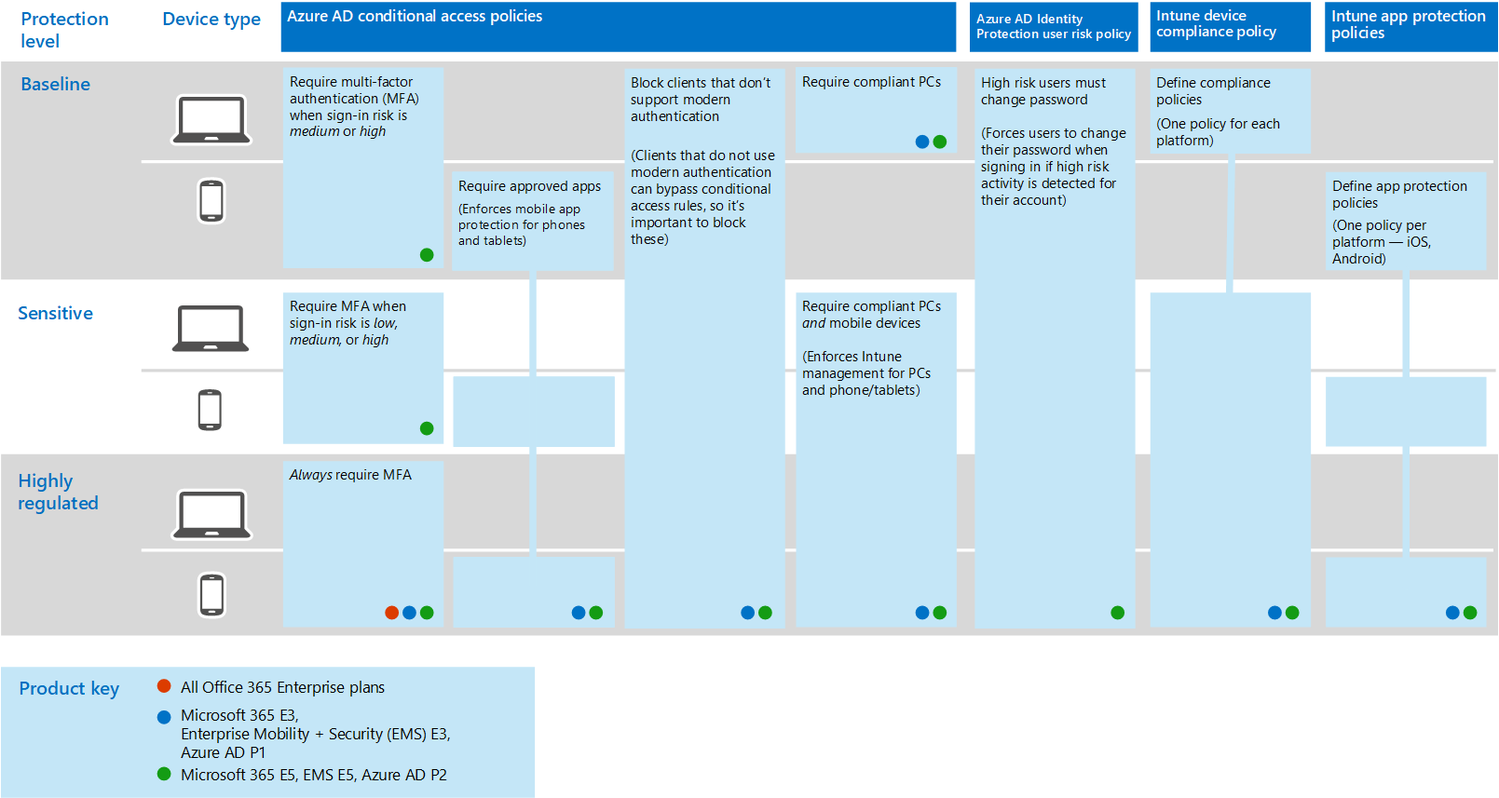
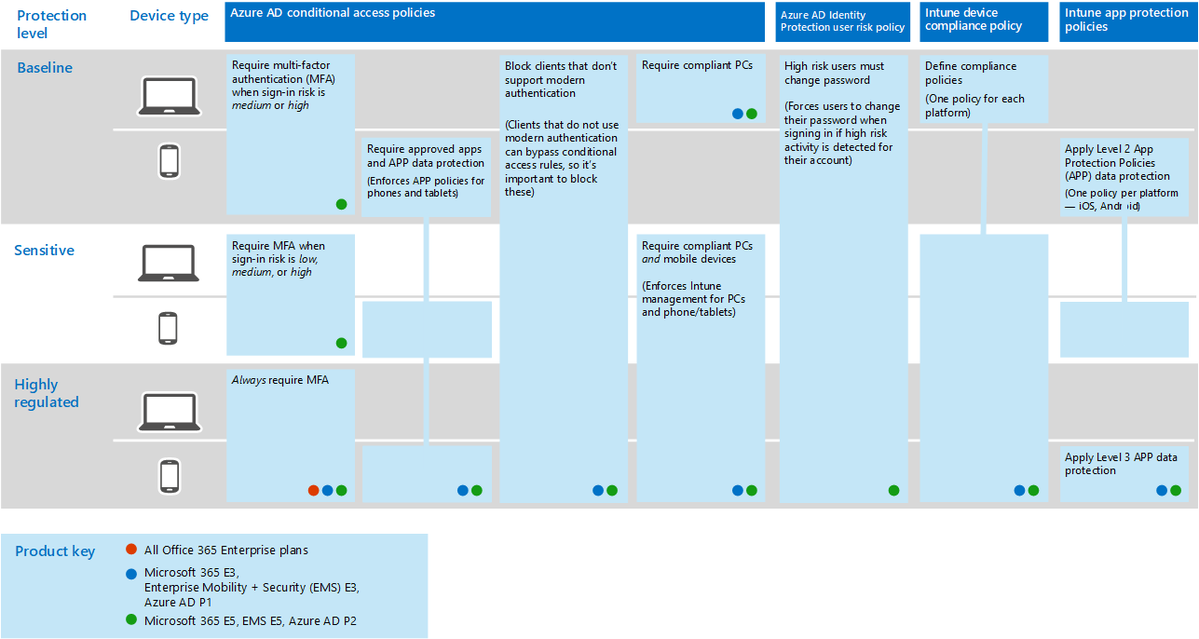
commit translated contents

diff --git a/microsoft-365/security/top-security-tasks-for-remote-work.md b/microsoft-365/security/top-security-tasks-for-remote-work.md
@@ -1,0 +1,245 @@
+---
+title: As 12 principais tarefas para as equipes de segurança dar suporte ao trabalho de casa
+f1.keywords:
+- CSH
+ms.author: bcarter
+author: brendacarter
+manager: johmar
+audience: Admin
+ms.topic: tutorial
+ms.service: o365-seccomp
+localization_priority: Normal
+ms.collection:
+- M365-security-compliance
+description: 'Proteja seus emails e dados de negócios contra ameaças da Cyber, incluindo ransomware, phishing e anexos mal-intencionados. '
+ms.openlocfilehash: 73f2ae19a7424d392bb365d7a24a83532a1950bf
+ms.sourcegitcommit: 37f17c918208b83fc04ba92e986e0a7548d4c38d
+ms.translationtype: MT
+ms.contentlocale: pt-BR
+ms.lasthandoff: 03/29/2020
+ms.locfileid: "43036376"
+---
+# <a name="top-12-tasks-for-security-teams-to-support-working-from-home"></a>As 12 principais tarefas para equipes de segurança dar suporte ao trabalho de casa
+
+Se você é como a [Microsoft](https://www.microsoft.com/microsoft-365/blog/2020/03/10/staying-productive-while-working-remotely-with-microsoft-teams/) e, de repente, está dando suporte a uma força de trabalho essencialmente baseada em casa, queremos ajudá-lo a garantir que sua organização esteja trabalhando o mais seguro possível. Este artigo prioriza tarefas para ajudar as equipes de segurança a implementar os recursos de segurança mais importantes o mais rápido possível. 
+
+Se você for uma organização de pequeno e médio porte usando um dos planos de negócios da Microsoft, consulte estes recursos:
+- [10 principais formas de proteger planos corporativos do Office 365 e do Microsoft 365](../admin/security-and-compliance/secure-your-business-data.md) 
+- [Microsoft 365 para campanhas](https://docs.microsoft.com/microsoft-365/campaigns/?view=o365-worldwide) (inclui uma configuração de segurança recomendada para o Microsoft 365 Business)
+
+  
+Para os clientes que usam nossos planos corporativos, a Microsoft recomenda que você conclua as tarefas listadas na tabela a seguir que se aplicam ao seu plano de serviço. Se, em vez de comprar um plano Microsoft 365 Enterprise, você está combinando assinaturas, observe o seguinte:
+- O Microsoft 365 E3 inclui o Enterprise Mobility + Security (EMS) E3 e o Azure AD P1
+- O Microsoft 365 E5 inclui o EMS E5 e o Azure AD P2
+  
+||**Tarefa**| Todos os planos empresariais do Office 365|**Microsoft 365 E3** |**Microsoft 365 e5**|
+|:-----|:-----|:-----|:-----|:-----|
+|1      |[Habilitar a MFA (autenticação multifator do Azure)](#1-enable-azure-multi-factor-authentication-mfa)   |   ![Incluído](../media/d238e041-6854-4a78-9141-049224df0795.png)  |![Incluído](../media/d238e041-6854-4a78-9141-049224df0795.png)   | ![Incluído](../media/d238e041-6854-4a78-9141-049224df0795.png)      | 
+|duas     | [Proteção contra ameaças no Office 365](#2-protect-against-threats-in-office-365) |![Incluído](../media/d238e041-6854-4a78-9141-049224df0795.png) |  ![Incluído](../media/d238e041-6854-4a78-9141-049224df0795.png)       | ![Incluído](../media/d238e041-6854-4a78-9141-049224df0795.png)       | 
+|3D      |  [Configurar a proteção avançada contra ameaças do Office 365](#3-configure-office-365-advanced-threat-protection)  |   |      |  ![Incluído](../media/d238e041-6854-4a78-9141-049224df0795.png)     | 
+|4       | [Configurar a proteção avançada contra ameaças (ATP) do Azure](#4-configure-azure-advanced-threat-protection)   |   |      |  ![Incluído](../media/d238e041-6854-4a78-9141-049224df0795.png)     | 
+|5      |   [Ativar a proteção avançada contra ameaças da Microsoft](#5-turn-on-microsoft-advanced-threat-protection)  |  |      | ![Incluído](../media/d238e041-6854-4a78-9141-049224df0795.png)      | 
+|6       | [Configurar a proteção de aplicativos móveis do Intune para telefones e tablets](#6-configure-intune-mobile-app-protection-for-phones-and-tablets) |    |  ![Incluído](../media/d238e041-6854-4a78-9141-049224df0795.png)       |  ![Incluído](../media/d238e041-6854-4a78-9141-049224df0795.png)       | 
+|7      | [Configurar a MFA e o acesso condicional para convidados, incluindo a proteção de aplicativos do Intune](#7-configure-mfa-and-conditional-access-for-guests-including-intune-mobile-app-protection)  |    |  ![Incluído](../media/d238e041-6854-4a78-9141-049224df0795.png)     | ![Incluído](../media/d238e041-6854-4a78-9141-049224df0795.png)      | 
+|8       |  [Registrar PCs no gerenciamento de dispositivos e exigir computadores compatíveis](#8-enroll-pcs-into-device-management-and-require-compliant-pcs)   |  | ![Incluído](../media/d238e041-6854-4a78-9141-049224df0795.png)        | ![Incluído](../media/d238e041-6854-4a78-9141-049224df0795.png)        | 
+|9       | [Otimizar sua rede para conectividade de nuvem](#9-optimize-your-network-for-cloud-connectivity)  |  ![Incluído](../media/d238e041-6854-4a78-9141-049224df0795.png) |![Incluído](../media/d238e041-6854-4a78-9141-049224df0795.png)      |![Incluído](../media/d238e041-6854-4a78-9141-049224df0795.png)        | 
+|10    | [Treinar usuários](#10-train-users) |    ![Incluído](../media/d238e041-6854-4a78-9141-049224df0795.png) |![Incluído](../media/d238e041-6854-4a78-9141-049224df0795.png)      |![Incluído](../media/d238e041-6854-4a78-9141-049224df0795.png)      | 
+|11 |[Introdução ao Microsoft Cloud app Security](#11-get-started-with-microsoft-cloud-app-security) |![Incluído](../media/d238e041-6854-4a78-9141-049224df0795.png)   |![Incluído](../media/d238e041-6854-4a78-9141-049224df0795.png)   |![Incluído](../media/d238e041-6854-4a78-9141-049224df0795.png)   |
+|12  |[Monitorar ameaças e tomar ações](#12-monitor-for-threats-and-take-action) |![Incluído](../media/d238e041-6854-4a78-9141-049224df0795.png)   |![Incluído](../media/d238e041-6854-4a78-9141-049224df0795.png)  |![Incluído](../media/d238e041-6854-4a78-9141-049224df0795.png)  |
+| | | |
+
+
+   
+Antes de começar, verifique sua pontuação de segurança do [microsoft 365](https://docs.microsoft.com/microsoft-365/security/mtp/microsoft-secure-score) na central de segurança do Microsoft 365. A partir de um painel centralizado, você pode monitorar e aprimorar a segurança de suas identidades, dados, aplicativos, dispositivos e infraestrutura do Microsoft 365. Você receberá pontos para configurar os recursos de segurança recomendados, executar tarefas relacionadas à segurança (como exibir relatórios) ou endereçar recomendações com aplicativos ou software de terceiros. As tarefas recomendadas neste artigo aumentarão sua pontuação.
+  
+![Captura de tela da Pontuação segura da Microsoft](../media/secure-score.png)
+  
+## <a name="1-enable-azure-multi-factor-authentication-mfa"></a>1: habilitar a MFA (autenticação multifator do Azure)
+A melhor coisa que você pode fazer para melhorar a segurança de funcionários que trabalham em casa é ativar a MFA. Se você ainda não tem processos no lugar, trate isso como um piloto de emergência e certifique-se de que você tem suporte para pessoas prontas para ajudar os funcionários que se encontram presas. Como provavelmente, você não pode distribuir dispositivos de segurança de hardware, usar aplicativos de autenticação de biometria e Smartphone do Windows Hello como o Microsoft Authenticator.
+
+Normalmente, a Microsoft recomenda que você forneça aos usuários 14 dias para registrar o dispositivo para autenticação multifator antes de exigir a MFA. No entanto, se sua força de trabalho estiver trabalhando de repente, vá em frente e exija MFA como uma prioridade de segurança e prepare-se para ajudar os usuários que precisarem. 
+
+A aplicação dessas políticas levará apenas alguns minutos, mas estará preparada para dar suporte aos usuários nos próximos dias.  
+
+
+|Planejar  |Recomendação  |
+|---------|---------|
+|Planos do Office 365 (sem o Azure AD P1 ou P2)     |[Habilitar padrões de segurança no Azure ad](https://docs.microsoft.com/azure/active-directory/fundamentals/concept-fundamentals-security-defaults). Os padrões de segurança no Azure AD incluem MFA de usuários e administradores.   |
+|Microsoft 365 E3 (com o Azure AD P1)     | Use [políticas de acesso condicional comuns](https://docs.microsoft.com/azure/active-directory/conditional-access/concept-conditional-access-policy-common) para configurar as seguintes políticas: <br>- [Exigir MFA para administradores](https://docs.microsoft.com/azure/active-directory/conditional-access/howto-conditional-access-policy-admin-mfa) <br>- [Exigir MFA para todos os usuários](https://docs.microsoft.com/azure/active-directory/conditional-access/howto-conditional-access-policy-all-users-mfa) <br> - [Bloquear autenticação herdada](https://docs.microsoft.com/azure/active-directory/conditional-access/howto-conditional-access-policy-block-legacy)       |
+|Microsoft 365 E5 (com o Azure AD P2)     | Aproveitando a proteção de identidade do Azure AD, comece a implementar o [conjunto recomendado de acesso condicional e políticas relacionadas](../enterprise/identity-access-policies.md) da Microsoft, criando estas duas políticas:<br> - [Exigir MFA quando o risco de entrada for médio ou alto](../enterprise/identity-access-policies.md#require-mfa-based-on-sign-in-risk) <br>- [Bloquear clientes que não dão suporte à autenticação moderna](../enterprise/identity-access-policies.md#block-clients-that-dont-support-modern-authentication)<br>- [Usuários de alto risco devem alterar a senha](../enterprise/identity-access-policies.md#high-risk-users-must-change-password)       |
+| | |
+
+
+  
+## <a name="2-protect-against-threats-in-office-365"></a>2: proteger contra ameaças no Office 365
+
+Todos os planos do Office 365 incluem vários recursos de proteção contra ameaças. O relevo da proteção desses recursos leva apenas alguns minutos.
+- Proteção antimalware
+- Proteção de arquivos e URLs maliciosos
+- Proteção antiphishing
+- Proteção antispam
+
+Consulte [proteger contra ameaças no Office 365](office-365-security/protect-against-threats.md) para obter orientações que você pode usar como ponto de partida.
+    
+
+## <a name="3-configure-office-365-advanced-threat-protection"></a>3: configurar a proteção avançada contra ameaças do Office 365
+
+A proteção avançada contra ameaças (ATP) do Office 365, incluída no Microsoft 365 E5 e no Office 365 e5, protege sua organização contra ameaças maliciosas representadas por mensagens de email, links (URLs) e ferramentas de colaboração. Isso pode levar várias horas para configurar.
+
+Office 365 ATP:
+- Protege sua organização contra ameaças de email desconhecidas em tempo real usando sistemas inteligentes que inspecionam anexos e links de conteúdo mal-intencionado. Esses sistemas automatizados incluem uma plataforma robusta do acionamento, heurística e modelos de aprendizado de máquina. 
+- Protege sua organização quando os usuários colaboram e compartilham arquivos, identificando e bloqueando arquivos mal-intencionados em sites de equipe e bibliotecas de documentos. 
+- Aplica modelos de aprendizado de máquina e algoritmos avançados de detecção de representação a ataques de phishing da AVERT. 
+
+Para obter uma visão geral, incluindo um resumo dos planos, confira [proteção avançada contra ameaças do Office 365](office-365-security/office-365-atp.md).
+
+O administrador global pode configurar essas proteções:
+- [Configurar links seguros de ATP](office-365-security/set-up-atp-safe-links-policies.md)
+- [Configurar uma política de Anexos Seguros de ATP](office-365-security/set-up-atp-safe-attachments-policies.md)
+- [Configurar uma lista personalizada de URLs do tipo "não reconfigurar" ](office-365-security/set-up-a-custom-do-not-rewrite-urls-list-with-atp.md)
+- [Configurar uma lista personalizada de URLs bloqueadas](office-365-security/set-up-a-custom-blocked-urls-list-wtih-atp.md)
+
+Você precisará trabalhar com seu administrador do Exchange Online e administrador do SharePoint Online para configurar a ATP para essas cargas de trabalho:
+- [Ativar a ATP para SharePoint, OneDrive e Microsoft Teams](office-365-security/turn-on-atp-for-spo-odb-and-teams.md)
+
+## <a name="4-configure-azure-advanced-threat-protection"></a>4: configurar a proteção avançada contra ameaças do Azure
+
+A [proteção avançada contra ameaças do Azure](https://docs.microsoft.com/azure-advanced-threat-protection/what-is-atp) (Azure ATP) é uma solução de segurança baseada em nuvem que aproveita seus sinais do Active Directory local para identificar, detectar e investigar ameaças avançadas, identidades comprometidas e ações mal-intencionadas intencionais direcionadas para sua organização. Concentre-se nesse próximo porque ele protege sua infraestrutura local e de nuvem, não tem dependências ou pré-requisitos e pode fornecer benefícios imediatos.
+
+
+- Confira o [início rápido do Azure ATP](https://docs.microsoft.com/azure-advanced-threat-protection/install-atp-step1) para obter a configuração rapidamente 
+- Assista [ao vídeo: Introduction to Azure ATP](https://www.youtube.com/watch?reload=9&v=EGY2m8yU_KE)
+- Analisar as [três fases da implantação do Azure ATP](https://docs.microsoft.com/azure-advanced-threat-protection/what-is-atp#whats-next)
+
+## <a name="5-turn-on-microsoft-advanced-threat-protection"></a>5: ativar a proteção avançada contra ameaças da Microsoft
+
+Agora que você tem o Office 365 ATP e o Azure ATP configurados, você pode exibir os sinais combinados desses recursos em um painel. A [Microsoft Threat Protection](https://docs.microsoft.com/microsoft-365/security/mtp/microsoft-threat-protection) (MTP) reúne alertas, incidentes, investigação e resposta automatizadas e busca avançada entre cargas de trabalho (Azure ATP, Office 365 ATP, Microsoft defender ATP e Microsoft Cloud app Security) em um único painel em [Security.Microsoft.com](https://security.microsoft.com). 
+<br>
+
+![Ilustração do painel MTP](../media/top-10-security-remote-work-mtp-dashboard.png)
+<br><br>
+Depois de configurar um ou mais serviços avançados de proteção contra ameaças, ative o MTP. Novos recursos são adicionados continuamente ao MTP; Considere optar por receber recursos de visualização.
+
+- [Saiba mais sobre MTP](https://docs.microsoft.com/microsoft-365/security/mtp/microsoft-threat-protection?view=o365-worldwide)
+- [Ativar MTP](https://docs.microsoft.com/microsoft-365/security/mtp/mtp-enable?view=o365-worldwide)
+- [Aceitar recursos de visualização](https://docs.microsoft.com/microsoft-365/security/mtp/preview?view=o365-worldwide)
+
+
+## <a name="6-configure-intune-mobile-app-protection-for-phones-and-tablets"></a>6: configurar a proteção de aplicativos móveis do Intune para telefones e tablets
+
+O Microsoft Intune Mobile Application Management (MAM) permite que você gerencie e proteja os dados da sua organização em telefones e tablets sem gerenciar esses dispositivos. Veja como funciona:
+- Você cria uma política de proteção de aplicativo (aplicativo) que determina quais aplicativos em um dispositivo são gerenciados e quais comportamentos são permitidos (por exemplo, impedir que dados de um aplicativo gerenciado sejam copiados para um aplicativo não gerenciado). Você cria uma política para cada platorm (iOS, Android).
+- Depois de criar as políticas de proteção de aplicativo, você as aplica criando uma regra de acesso condicional no Azure AD para exigir aplicativos aprovados e proteção de dados de aplicativos.
+
+As políticas de proteção de aplicativos incluem muitas configurações. Felizmente, você não precisa saber mais sobre cada configuração e avaliar as opções. A Microsoft facilita a aplicação de uma configuração de configurações, recomendando pontos iniciais. A [estrutura de proteção de dados usando políticas de proteção de aplicativo](https://docs.microsoft.com/mem/intune/apps/app-protection-framework) inclui três níveis que você pode escolher. 
+
+O melhor é que a Microsoft coordena essa estrutura de proteção do aplicativo com um conjunto de acesso condicional e políticas relacionadas que recomendamos que todas as organizações usem como ponto de partida. Se você implementou o MFA usando as orientações deste artigo, você é meio caminho lá!
+
+Para configurar a proteção de aplicativos móveis, use as orientações em [políticas comuns de acesso a dispositivos e identidades](../enterprise/identity-access-policies.md):
+ 1. Use a guia [aplicar políticas de proteção de dados de aplicativos](../enterprise/identity-access-policies.md#apply-app-data-protection-policies) para criar políticas para IOS e Android. O nível 2 (proteção avançada de dados) é recomendado para a proteção de linha de base. 
+ 2. Crie uma regra de acesso condicional para [exigir aplicativos aprovados e proteção de aplicativos](../enterprise/identity-access-policies.md#require-approved-apps-and-app-protection). 
+
+## <a name="7-configure-mfa-and-conditional-access-for-guests-including-intune-mobile-app-protection"></a>7: Configure a MFA e o acesso condicional para convidados, incluindo a proteção de aplicativos móveis do Intune
+
+Em seguida, vamos garantir que você possa continuar colaborar e trabalhar com convidados. Se você estiver usando o Microsoft 365 E3 Plan e implementou a MFA para todos os usuários, você está pronto. 
+
+Se você estiver usando o Microsoft 365 E5 Plan e estiver tirando proveito da proteção de identidade do Azure para a MFA baseada em risco, precisará fazer alguns ajustes (porque a proteção de identidade do Azure AD não é estendida para convidados):
+- Crie uma nova regra de acesso condicional para exigir a MFA sempre para convidados e usuários externos.
+- Atualize a regra de acesso condicional do MFA com base em risco para excluir convidados e usuários externos.
+
+Use as orientações sobre como [atualizar as políticas comuns para permitir e proteger o acesso externo e de convidados](../enterprise/identity-access-policies-guest-access.md) para entender como o acesso de convidados funciona com o Azure AD e para atualizar as políticas afetadas. 
+
+As políticas de proteção de aplicativos móveis do Intune criadas, junto com a regra de acesso condicional para exigir aplicativos e proteção de aplicativos aprovados, se aplicam às contas de convidados e ajudarão a proteger os dados da organização. 
+
+**Observação**: se você já registrou os computadores no gerenciamento de dispositivos para exigir computadores compatíveis, você também precisará excluir as contas de convidados da regra de acesso condicional que impõe a conformidade do dispositivo. 
+
+
+## <a name="8-enroll-pcs-into-device-management-and-require-compliant-pcs"></a>8: registrar os PCs no gerenciamento de dispositivos e exigir computadores compatíveis
+
+Há vários métodos para registrar os dispositivos de sua força de funcionários. Cada método depende da Propriedade do dispositivo (pessoal ou corporativo), do tipo de dispositivo (iOS, Windows, Android) e dos requisitos de gerenciamento (redefinições, afinidade, bloqueio). Isso pode levar algum tempo para ser classificado. Confira: [registrar dispositivos no Microsoft Intune](https://docs.microsoft.com/mem/intune/enrollment/). 
+
+A maneira mais rápida de se começar é [Configurar o registro automático para dispositivos Windows 10](https://docs.microsoft.com/mem/intune/enrollment/quickstart-setup-auto-enrollment). 
+
+Você também pode aproveitar estes tutoriais:
+- [Usar o piloto automático para registrar dispositivos Windows no Intune](https://docs.microsoft.com/mem/intune/enrollment/tutorial-use-autopilot-enroll-devices)
+- [Usar os recursos de registro de dispositivo corporativo da Apple no Apple Business Manager (ABM) para registrar dispositivos iOS/iPadOS no Intune](https://docs.microsoft.com/mem/intune/enrollment/tutorial-use-device-enrollment-program-enroll-ios)
+
+Após registrar os dispositivos, use as orientações em [políticas comuns de acesso de dispositivo e identidade](../enterprise/identity-access-policies.md) para criar essas políticas:
+- [Definir políticas de conformidade de dispositivos](../enterprise/identity-access-policies.md#define-device-compliance-policies)
+- [Exigir computadores compatíveis](../enterprise/identity-access-policies.md#require-compliant-pcs-but-not-compliant-phones-and-tablets) (regra de acesso condicional)
+
+Somente uma organização pode gerenciar um dispositivo, portanto, certifique-se de excluir as contas de convidado da regra de acesso condicional no Azure AD. Se você não excluir usuários convidados e externos de políticas que exigem conformidade de dispositivos, essas políticas bloquearão esses usuários. Para obter mais informações, consulte [atualizando as políticas comuns para permitir e proteger o acesso externo e convidado](../enterprise/identity-access-policies-guest-access.md).
+
+## <a name="9-optimize-your-network-for-cloud-connectivity"></a>9: Otimize sua rede para conectividade de nuvem
+
+Se você estiver rapidamente permitindo que a maior parte dos seus funcionários trabalhe de casa, essa opção repentina de padrões de conectividade pode ter um impacto significativo na infraestrutura de rede corporativa. Muitas redes foram dimensionadas e projetadas antes da adoção dos serviços em nuvem. Em muitos casos, as redes são tolerantes a funcionários remotos, mas não foram projetadas para serem usadas remotamente por todos os usuários simultaneamente.
+
+Elementos de rede, como concentradores VPN, equipamentos de saída de rede central (como proxies e dispositivos de prevenção contra perda de dados), largura de banda da Internet central, circuitos MPLS backhaul, recurso NAT e assim por diante são colocados em grande sobrecarga devido à carga de toda a empresa que as usa. O resultado final é desempenho e produtividade insatisfatórios, juntamente com uma experiência de usuário ruim para usuários que estão se adaptando para trabalhar de casa.
+
+Algumas das proteções que foram fornecidas tradicionalmente por meio de tráfego de roteamento de entrada em uma rede corporativa são fornecidas pelos aplicativos de nuvem que seus usuários estão acessando. Se você tiver atingido esta etapa neste artigo, implementou um conjunto de controles de segurança de nuvem sofisticados para os serviços e dados do Microsoft 365. Com esses controles in-loco, você pode estar pronto para rotear o tráfego de usuários remotos diretamente para o Office 365. Se ainda precisar de um link VPN para acessar outros aplicativos, você poderá melhorar muito o desempenho e a experiência do usuário implementando o túnel de divisão. Depois de obter o contrato no oganization, isso pode ser realizado dentro de um dia por uma equipe de rede bem coordenada.
+
+
+Confira estes recursos em docs para obter mais informações:
+- [Visão geral: otimizar a conectividade do Office 365 para usuários remotos usando o túnel dividido VPN](https://docs.microsoft.com/Office365/Enterprise/office-365-vpn-split-tunnel)
+- [Implementando o tunelamento dividido de VPN para Office 365](https://docs.microsoft.com/Office365/Enterprise/office-365-vpn-implement-split-tunnel)
+
+Artigos recentes do blog sobre este tópico:
+- [Como otimizar rapidamente o tráfego do Office 365 para a equipe remota & reduzir a carga em sua infraestrutura](https://techcommunity.microsoft.com/t5/office-365-blog/how-to-quickly-optimize-office-365-traffic-for-remote-staff-amp/ba-p/1214571#)
+- [Maneiras alternativas para profissionais de segurança e ti obter controles de segurança modernos nos cenários de trabalho remoto exclusivos de hoje](https://www.microsoft.com/security/blog/2020/03/26/alternative-security-professionals-it-achieve-modern-security-controls-todays-unique-remote-work-scenarios/)
+
+
+## <a name="10-train-users"></a>10: treinar os usuários
+
+Quando os usuários não sabem sobre os recursos de proteção contra ameaças no trabalho em sua organização, eles podem se frustrar por recursos de proteção que são percebidos e diminuí-los ou impedindo que eles realizem o trabalho. Além disso, se eles sabem com antecedência o que observar com relação a mensagens de email suspeitas ou URLs, eles serão muito menos prováveis de abrir artefatos questionáveis. O treinamento de usuários pode economizar seus usuários e a equipe de operações de segurança de uma grande quantidade de tempo e frustração.
+
+O [manual de campanha](https://go.microsoft.com/fwlink/?linkid=2015598&amp;clcid=0x409) da Harvard Kennedy School cybersecurity fornece orientações excelentes sobre o estabelecimento de uma grande cultura de reconhecimento de segurança em sua organização, incluindo o treinamento de usuários para identificar ataques de phishing. 
+
+A Microsoft 365 fornece os seguintes recursos para ajudar a informar os usuários em sua organização:
+
+|Conceito  |Recursos  |
+|---------|---------|
+|Microsoft 365     |[Caminhos de aprendizado personalizáveis](https://docs.microsoft.com/office365/customlearning/) <p>Esses recursos podem ajudá-lo a reunir o treinamento para os usuários finais em sua organização        |
+|Segurança do Microsoft 365 |[Módulo de aprendizado: proteger sua organização com segurança integrada e interna da Microsoft 365](https://docs.microsoft.com/learn/modules/security-with-microsoft-365) <p>Este módulo permite descrever como os recursos de segurança da Microsoft 365 trabalham juntos e articulam os benefícios desses recursos de segurança. |
+|Multi-factor Authentication     | [Verificação em duas etapas: o que é a página de verificação adicional?](https://docs.microsoft.com/azure/active-directory/user-help/multi-factor-authentication-end-user-first-time) <p>Este artigo ajuda os usuários finais a entender o que é a autenticação multifator e por que ela está sendo usada na sua organização.    |
+| | |
+
+Além desta orientação, a Microsoft recomenda que os usuários executem as ações descritas neste artigo: [proteja sua conta e seus dispositivos contra hackers e malware](https://support.office.com/article/066d6216-a56b-4f90-9af3-b3a1e9a327d6.aspx). Essas ações incluem:
+  
+- Usando senhas fortes
+    
+- Protegendo dispositivos 
+    
+- Habilitar recursos de segurança nos PCs com Windows 10 e Mac (para dispositivos não gerenciados)
+    
+A Microsoft também recomenda que os usuários protejam suas contas de email pessoais executando as ações recomendadas nos seguintes artigos:
+  
+- [Ajudar a proteger sua conta de email do Outlook.com](https://support.office.com/article/a4f20fc5-4307-4ece-8231-6d4d4bd8a9ba.aspx)
+    
+- [Proteger sua conta do Gmail com a verificação em duas etapas](https://go.microsoft.com/fwlink/?linkid=2015688&amp;clcid=0x409)
+
+
+## <a name="11-get-started-with-microsoft-cloud-app-security"></a>11: introdução ao Microsoft Cloud app Security
+
+[O Microsoft Cloud app Security](https://docs.microsoft.com/cloud-app-security) oferece visibilidade avançada, controle sobre a viagem de dados e análises sofisticadas para identificar e combater o ciberataques em todos os seus serviços de nuvem. Depois de começar a usar o Cloud app Security, as políticas de detecção de anomalias são habilitadas automaticamente, mas o Cloud app Security tem um período de aprendizado inicial de sete dias durante o qual nem todos os alertas de detecção de anomalias são gerados.
+
+Introdução ao Cloud app Security agora. Posteriormente, você pode configurar monitoramento e controles mais sofisticados.
+
+- [Início rápido: introdução à segurança do Cloud app](https://docs.microsoft.com/cloud-app-security/getting-started-with-cloud-app-security)
+- [Obter análise de comportamento instantâneo e detecção de anomalias](https://docs.microsoft.com/cloud-app-security/anomaly-detection-policy)
+- [Saiba mais sobre o Microsoft Cloud app Security](https://docs.microsoft.com/cloud-app-security/what-is-cloud-app-security)
+- [Analisar novos recursos e funcionalidades](https://docs.microsoft.com/cloud-app-security/release-notes)
+- [Consulte instruções básicas de instalação](https://docs.microsoft.com/cloud-app-security/general-setup)
+
+## <a name="12-monitor-for-threats-and-take-action"></a>12: monitorar ameaças e tomar ações
+
+O Microsoft 365 inclui várias maneiras de monitorar o status e tomar as ações apropriadas. O melhor ponto de partida é o centro de segurança do[https://security.microsoft.com](https://security.microsoft.com)Microsoft 365 (), onde você pode exibir a [Pontuação segura](https://docs.microsoft.com/microsoft-365/security/mtp/microsoft-secure-score?view=o365-worldwide)da sua organização e todos os alertas ou entidades que exigem sua atenção.
+
+- [Introdução à central de segurança do Microsoft 365](https://docs.microsoft.com/microsoft-365/security/mtp/overview-security-center?view=o365-worldwide)
+- [Monitorar e exibir relatórios](https://docs.microsoft.com/microsoft-365/security/mtp/monitoring-and-reporting?view=o365-worldwide)
+- [Consulte os portais de segurança no Microsoft 365](https://docs.microsoft.com/microsoft-365/security/mtp/portals)
+
+## <a name="next-steps"></a>Próximas etapas
+
+Parabéns! Você implementou rapidamente algumas das proteções de segurança mais importantes e sua organização é muito mais segura. Agora você está pronto para prosseguir ainda mais com os recursos de proteção contra ameaças (incluindo proteção avançada contra ameaças do Microsoft defender), classificação de dados e recursos de proteção e proteção de contas administrativas. Para obter um conjunto mais profundo e detalhado de recomendações de segurança para o Microsoft 365, consulte [Microsoft 365 Security for Business decisionship (BDMs)](Microsoft-365-security-for-bdm.md). 
+
+Além disso, visite a nova central de segurança da Microsoft no [docs.Microsoft.com/Security](https://docs.microsoft.com/security). 

diff --git a/microsoft-365/enterprise/identity-access-policies.md b/microsoft-365/enterprise/identity-access-policies.md
@@ -15,12 +15,12 @@ ms.custom:
 ms.collection:
 - M365-identity-device-management
 - M365-security-compliance
-ms.openlocfilehash: eb06db140e4e3c9c245b7689edecf4b0cb86b674
-ms.sourcegitcommit: c079cc893cd1bd5d894b13814063a2f42238806e
+ms.openlocfilehash: 803edd6fdf3d711a67b2ba4ff2e35f15c683c414
+ms.sourcegitcommit: 37f17c918208b83fc04ba92e986e0a7548d4c38d
 ms.translationtype: MT
 ms.contentlocale: pt-BR
-ms.lasthandoff: 03/28/2020
-ms.locfileid: "43035131"
+ms.lasthandoff: 03/29/2020
+ms.locfileid: "43036344"
 ---
 # <a name="common-identity-and-device-access-policies"></a>Identidade comum e políticas de acesso ao dispositivo
 Este artigo descreve as políticas comuns recomendadas para proteger o acesso a serviços de nuvem, incluindo aplicativos locais publicados com o proxy de aplicativo do Azure AD. 
